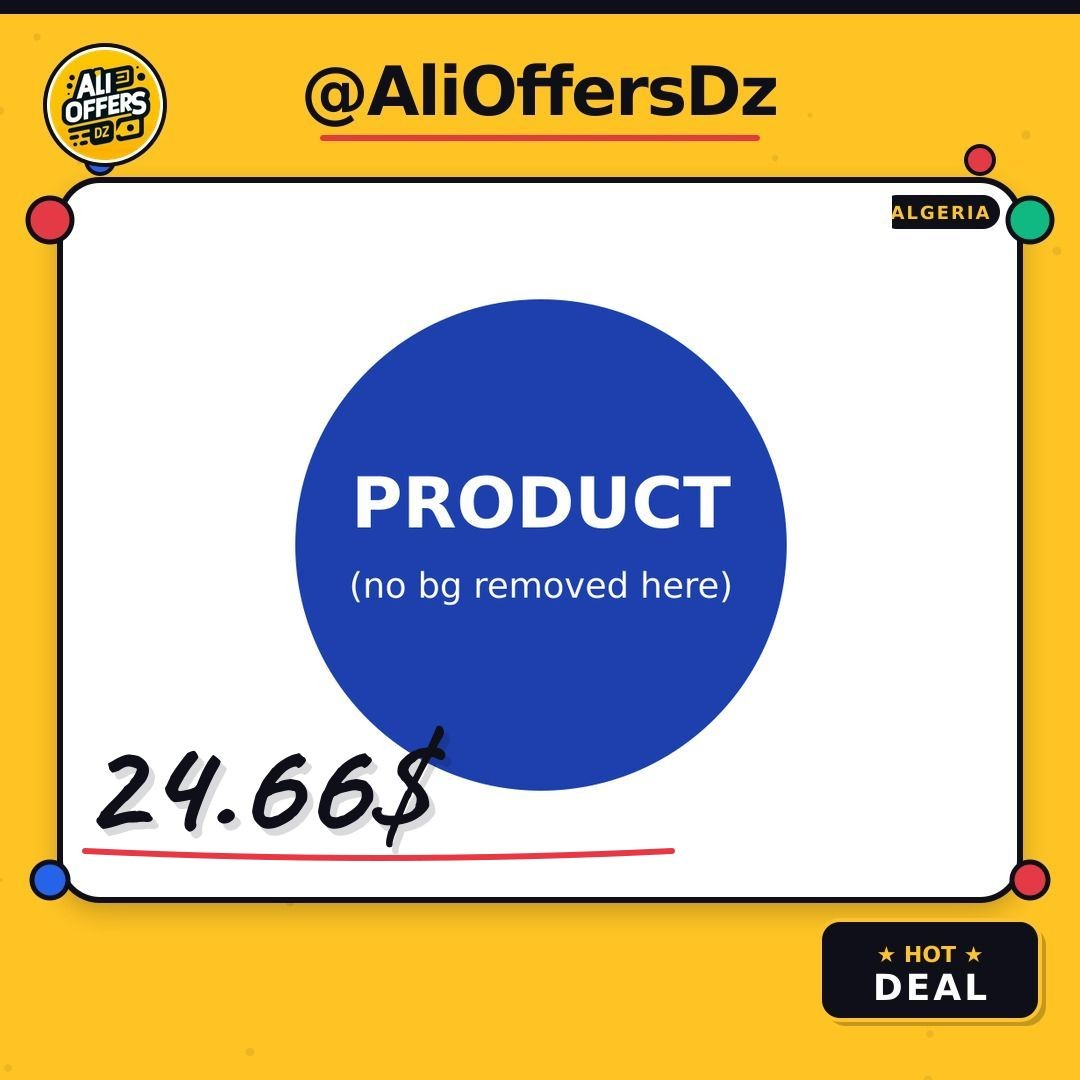
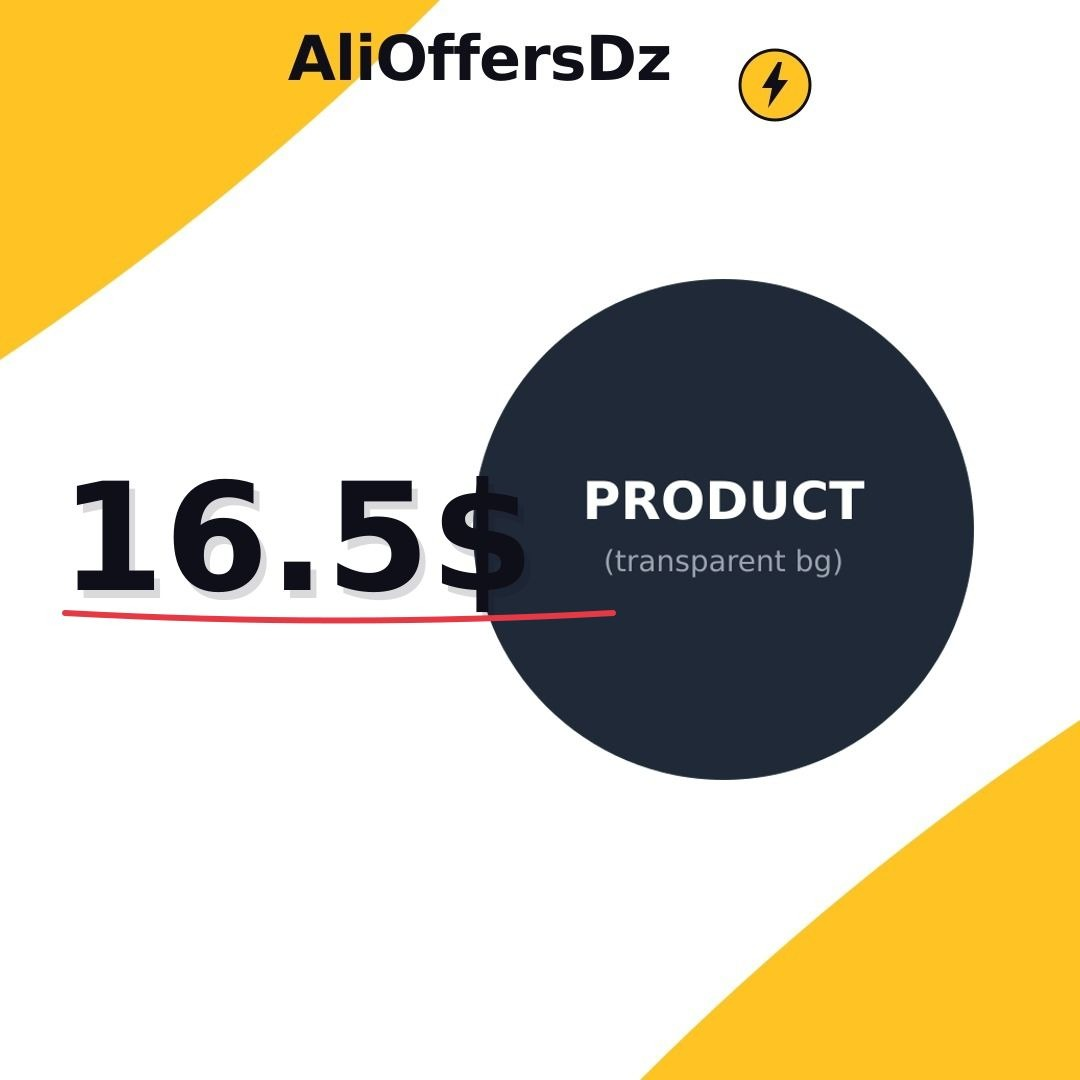
Update frame design to match RT DEALS style
Refactor scripts/build-frame.js and spy.js to implement the RT DEALS design, including white background, yellow swooshes, channel name, and dynamic pricing.

Replit-Commit-Author: Agent
Replit-Commit-Session-Id: a89dbef6-46b1-4384-9ed6-a8899594a70d
Replit-Commit-Checkpoint-Type: full_checkpoint
Replit-Commit-Event-Id: d37bc7d1-b516-4706-89e4-8cb3a9e4de31
Replit-Commit-Screenshot-Url: https://storage.googleapis.com/screenshot-production-us-central1/1842d263-0a1c-4a9c-a11e-cf92325f49a5/a89dbef6-46b1-4384-9ed6-a8899594a70d/5ejVb7s
Replit-Helium-Checkpoint-Created: true

diff --git a/scripts/build-frame.js b/scripts/build-frame.js
@@ -1,157 +1,77 @@
-// إطار جريء وجذاب — أصفر + أسود + دوائر ملوّنة (بدون نص سعر — السعر ديناميكي)
+// إطار نظيف بأسلوب RT DEALS — أبيض + منحنيين أصفرين + اسم القناة فوق + سعر يدوي يسار
 const sharp = require('sharp');
 const path = require('path');
 const fs = require('fs');
 
 const SIZE = 1080;
 const YELLOW = '#FFC424';
-const YELLOW_DARK = '#E5A800';
 const BLACK = '#0F0F1A';
-const RED = '#E63946';
-const BLUE = '#2563EB';
-const GREEN = '#10B981';
 
-// Geometry: white stage from y=180 to y=900 (height 720), x=60 to x=1020 (width 960)
-// → innerTop=180/1080≈16.7%, innerHeight=720/1080≈66.7%, innerLeft=60/1080≈5.6%, innerWidth=960/1080≈88.9%
+// Geometry: المنتج في النصف الأيمن
+// innerLeft=38%, innerTop=15%, innerW=58%, innerH=68% → spy.js
+// السعر اليدوي يسار-وسط → drawn dynamically
 
 const svg = `
 <svg width="${SIZE}" height="${SIZE}" xmlns="http://www.w3.org/2000/svg">
-  <defs>
-    <filter id="dropShadow" x="-20%" y="-20%" width="140%" height="140%">
-      <feGaussianBlur in="SourceAlpha" stdDeviation="14"/>
-      <feOffset dx="0" dy="10" result="offsetblur"/>
-      <feComponentTransfer><feFuncA type="linear" slope="0.25"/></feComponentTransfer>
-      <feMerge><feMergeNode/><feMergeNode in="SourceGraphic"/></feMerge>
-    </filter>
-  </defs>
+  <!-- خلفية بيضاء نقية -->
+  <rect width="${SIZE}" height="${SIZE}" fill="white"/>
 
-  <!-- خلفية صفراء كاملة -->
-  <rect width="${SIZE}" height="${SIZE}" fill="${YELLOW}"/>
-
-  <!-- نمط نقاط زخرفية في الخلفية الصفراء -->
-  ${(() => {
-    let dots = '';
-    for (let i = 0; i < 40; i++) {
-      const cx = Math.random() * SIZE;
-      const cy = Math.random() * SIZE;
-      const r = 2 + Math.random() * 3;
-      dots += `<circle cx="${cx.toFixed(0)}" cy="${cy.toFixed(0)}" r="${r.toFixed(1)}" fill="${BLACK}" opacity="0.08"/>`;
-    }
-    return dots;
-  })()}
-
-  <!-- ░░░ HEADER: شريط علوي مع اسم القناة ░░░ -->
-  <!-- شريط أسود علوي رفيع -->
-  <rect x="0" y="0" width="${SIZE}" height="14" fill="${BLACK}"/>
-  <!-- اسم القناة كبير وأسود -->
-  <text x="${SIZE/2}" y="115" font-family="Arial Black, sans-serif" font-size="68" font-weight="900" fill="${BLACK}" text-anchor="middle" letter-spacing="-2">@AliOffersDz</text>
-  <!-- خط أحمر تحت الاسم (لمسة رياضية) -->
-  <rect x="${SIZE/2 - 220}" y="135" width="440" height="6" fill="${RED}" rx="3"/>
-
-  <!-- ░░░ المسرح الأبيض المركزي للمنتج ░░░ -->
-  <g filter="url(#dropShadow)">
-    <rect x="60" y="180" width="960" height="720" rx="40" fill="white"/>
-  </g>
-
-  <!-- إطار أسود رفيع حول المسرح -->
-  <rect x="60" y="180" width="960" height="720" rx="40" fill="none" stroke="${BLACK}" stroke-width="6"/>
-
-  <!-- ░░░ دوائر ملوّنة زخرفية على حواف المسرح ░░░ -->
-  <!-- زاوية علوية يسرى -->
-  <circle cx="50" cy="220" r="22" fill="${RED}" stroke="${BLACK}" stroke-width="5"/>
-  <circle cx="100" cy="160" r="14" fill="${BLUE}" stroke="${BLACK}" stroke-width="4"/>
-  <!-- زاوية علوية يمنى -->
-  <circle cx="${SIZE-50}" cy="220" r="22" fill="${GREEN}" stroke="${BLACK}" stroke-width="5"/>
-  <circle cx="${SIZE-100}" cy="160" r="14" fill="${RED}" stroke="${BLACK}" stroke-width="4"/>
-  <!-- زاوية سفلية يسرى -->
-  <circle cx="50" cy="880" r="18" fill="${BLUE}" stroke="${BLACK}" stroke-width="5"/>
-  <!-- زاوية سفلية يمنى -->
-  <circle cx="${SIZE-50}" cy="880" r="18" fill="${RED}" stroke="${BLACK}" stroke-width="5"/>
-
-  <!-- ░░░ شارة "DEAL" سفلية بارزة في الزاوية اليمنى ░░░ -->
-  <g transform="translate(${SIZE-260}, ${SIZE-160})">
-    <!-- ظل -->
-    <rect x="6" y="6" width="220" height="100" rx="20" fill="${BLACK}" opacity="0.25"/>
-    <!-- بطاقة حمراء -->
-    <rect x="0" y="0" width="220" height="100" rx="20" fill="${BLACK}"/>
-    <rect x="0" y="0" width="220" height="100" rx="20" fill="none" stroke="${YELLOW}" stroke-width="4"/>
-    <!-- نص -->
-    <text x="110" y="42" font-family="Arial Black, sans-serif" font-size="22" font-weight="900" fill="${YELLOW}" text-anchor="middle">★ HOT ★</text>
-    <text x="110" y="80" font-family="Arial Black, sans-serif" font-size="36" font-weight="900" fill="white" text-anchor="middle" letter-spacing="3">DEAL</text>
-  </g>
-
-  <!-- ░░░ شارة "PRICE" يدوية فارغة (الرقم سيُكتب ديناميكياً) ░░░ -->
-  <!-- نتركها فارغة - السعر سيُرسم في runtime عبر overlayPrice -->
+  <!-- ░░░ منحنى أصفر علوي يسار ░░░ -->
+  <!-- يبدأ من زاوية أعلى يسار، يسحب لليمين ~430px ثم ينحني للأسفل عائداً للحافة اليسرى -->
+  <path d="M 0 0 H 440 Q 240 200 0 360 Z" fill="${YELLOW}"/>
   
-  <!-- شريط جانبي صغير بنص ALGERIA في زاوية اليمين العلوية للمسرح -->
-  <g transform="translate(${SIZE-200}, 195)">
-    <rect x="0" y="0" width="120" height="34" rx="17" fill="${BLACK}"/>
-    <text x="60" y="24" font-family="Arial Black, sans-serif" font-size="18" font-weight="900" fill="${YELLOW}" text-anchor="middle" letter-spacing="2">ALGERIA</text>
+  <!-- ░░░ منحنى أصفر سفلي يمين (مرآة) ░░░ -->
+  <path d="M ${SIZE} ${SIZE} H ${SIZE-440} Q ${SIZE-240} ${SIZE-200} ${SIZE} ${SIZE-360} Z" fill="${YELLOW}"/>
+
+  <!-- ░░░ هيدر: اسم القناة + أيقونة برق ░░░ -->
+  <!-- اسم القناة كبير وسط الأعلى -->
+  <text x="${SIZE/2 - 60}" y="80" font-family="Arial Black, sans-serif" font-size="62" font-weight="900" fill="${BLACK}" text-anchor="middle" letter-spacing="-1">AliOffersDz</text>
+  
+  <!-- دائرة صفراء مع برق أسود (مكان شعار البرق في RT DEALS) -->
+  <g transform="translate(${SIZE/2 + 200}, 50)">
+    <circle cx="35" cy="35" r="35" fill="${YELLOW}" stroke="${BLACK}" stroke-width="3"/>
+    <!-- برق أسود -->
+    <path d="M 38 12 L 22 38 L 32 38 L 28 58 L 48 30 L 38 30 L 42 12 Z" fill="${BLACK}"/>
   </g>
 </svg>`;
 
 (async () => {
   const outPath = path.join(__dirname, '..', 'public', 'custom_frame.jpg');
-
-  // 1) ارسم الإطار الأساسي
   const baseFrame = await sharp(Buffer.from(svg)).png().toBuffer();
+  await sharp(baseFrame).jpeg({ quality: 94 }).toFile(outPath);
+  console.log('✅ Built clean RT-DEALS-style frame');
 
-  // 2) جهّز شعار صغير دائري في زاوية الهيدر العلوية اليسرى
-  const logoPath = path.join(__dirname, '..', 'public', 'logo.png');
-  if (fs.existsSync(logoPath)) {
-    const LOGO = 110;
-    const logoBuf = await sharp(logoPath)
-      .resize(LOGO, LOGO, { fit: 'contain', background: { r: 0, g: 0, b: 0, alpha: 0 } })
-      .png()
-      .toBuffer();
-    // خلفية بيضاء دائرية للشعار + ظل
-    const halo = Buffer.from(`<svg width="${LOGO+20}" height="${LOGO+20}" xmlns="http://www.w3.org/2000/svg">
-      <circle cx="${(LOGO+20)/2}" cy="${(LOGO+20)/2}" r="${LOGO/2 + 5}" fill="white" stroke="${BLACK}" stroke-width="4"/>
-    </svg>`);
-    const haloBuf = await sharp(halo).png().toBuffer();
-
-    const composed = await sharp(baseFrame)
-      .composite([
-        { input: haloBuf, left: 40, top: 40 },
-        { input: logoBuf, left: 50, top: 50 },
-      ])
-      .jpeg({ quality: 92 })
-      .toBuffer();
-    fs.writeFileSync(outPath, composed);
-  } else {
-    await sharp(baseFrame).jpeg({ quality: 92 }).toFile(outPath);
-  }
-
-  console.log('✅ Built bold frame (yellow + black + circles)');
-
-  // 3) معاينة مع منتج وهمي + سعر ديناميكي
+  // ░░░ معاينة مع منتج وهمي + سعر ديناميكي ░░░
   const { overlayPrice } = require(path.join(__dirname, '..', 'imageProcessor.js'));
-  const productSvg = `<svg width="800" height="800" xmlns="http://www.w3.org/2000/svg">
-    <rect width="800" height="800" fill="white"/>
-    <circle cx="400" cy="400" r="280" fill="#1E40AF"/>
-    <text x="400" y="380" font-family="Arial Black" font-size="80" font-weight="900" fill="white" text-anchor="middle">PRODUCT</text>
-    <text x="400" y="460" font-family="Arial" font-size="40" fill="white" text-anchor="middle">(no bg removed here)</text>
+  
+  // منتج وهمي (سيُستبدل في الإنتاج بصور بدون خلفية)
+  const productSvg = `<svg width="600" height="600" xmlns="http://www.w3.org/2000/svg">
+    <circle cx="300" cy="300" r="240" fill="#1F2937"/>
+    <text x="300" y="290" font-family="Arial Black" font-size="50" font-weight="900" fill="white" text-anchor="middle">PRODUCT</text>
+    <text x="300" y="340" font-family="Arial" font-size="28" fill="#9CA3AF" text-anchor="middle">(transparent bg)</text>
   </svg>`;
   const productBuf = await sharp(Buffer.from(productSvg)).png().toBuffer();
 
-  // منطقة المنتج: داخل المسرح الأبيض
-  const innerLeft = Math.round(1080 * 0.07);
-  const innerTop = Math.round(1080 * 0.18);
-  const innerW = Math.round(1080 * 0.86);
-  const innerH = Math.round(1080 * 0.65);
+  // المنتج في النصف الأيمن: innerLeft=38%, innerTop=15%, innerW=58%, innerH=68%
+  const innerLeft = Math.round(SIZE * 0.38);
+  const innerTop = Math.round(SIZE * 0.15);
+  const innerW = Math.round(SIZE * 0.58);
+  const innerH = Math.round(SIZE * 0.68);
   const resizedProduct = await sharp(productBuf)
     .resize(innerW, innerH, { fit: 'inside' })
     .toBuffer();
-  // مركز داخل المسرح
   const meta = await sharp(resizedProduct).metadata();
   const offX = innerLeft + Math.round((innerW - meta.width) / 2);
   const offY = innerTop + Math.round((innerH - meta.height) / 2);
 
   let preview = await sharp(outPath)
     .composite([{ input: resizedProduct, left: offX, top: offY, blend: 'over' }])
+    .jpeg({ quality: 92 })
     .toBuffer();
-  // أضف سعر تجريبي
-  preview = await overlayPrice(preview, '24.66', { x: 80, y: 690, fontSize: 140 });
-  await sharp(preview).jpeg({ quality: 90 }).toFile(path.join(__dirname, '..', 'public', 'preview_yellow.jpg'));
+  
+  // السعر اليدوي يسار-وسط
+  preview = await overlayPrice(preview, '16.5', { x: 60, y: 440, fontSize: 150 });
+  
+  await sharp(preview).jpeg({ quality: 92 }).toFile(path.join(__dirname, '..', 'public', 'preview_yellow.jpg'));
   console.log('✅ Preview saved');
 })().catch(e => { console.error(e); process.exit(1); });

diff --git a/spy.js b/spy.js
@@ -466,11 +466,11 @@ async function applyFrameToImage(productImage, imageUrl, watermark, opts = {}) {
 
     const meta = await sharp(useFramePath).metadata();
     const fW = meta.width, fH = meta.height;
-    // Bold frame geometry: white stage at 7% left, 18% top, 86% wide, 65% tall
-    const innerLeft = Math.round(fW * 0.07);
-    const innerTop = Math.round(fH * 0.18);
-    const innerW = Math.round(fW * 0.86);
-    const innerH = Math.round(fH * 0.65);
+    // RT-DEALS-style geometry: المنتج في النصف الأيمن (38% left, 15% top, 58% wide, 68% tall)
+    const innerLeft = Math.round(fW * 0.38);
+    const innerTop = Math.round(fH * 0.15);
+    const innerW = Math.round(fW * 0.58);
+    const innerH = Math.round(fH * 0.68);
 
     // إزالة خلفية المنتج إذا مفعّلة
     let productBuf = buffer;
@@ -532,10 +532,10 @@ async function applyFrameToImage(productImage, imageUrl, watermark, opts = {}) {
       let price = opts.price || null;
       if (!price && opts.postText) price = extractPrice(opts.postText);
       if (price) {
-        // موضع السعر داخل المسرح أسفل-يسار
-        const priceX = Math.round(fW * 0.075);
-        const priceY = Math.round(fH * 0.62);
-        const priceFontSize = Math.round(fH * 0.13);
+        // موضع السعر يسار-وسط (بأسلوب RT DEALS)
+        const priceX = Math.round(fW * 0.055);
+        const priceY = Math.round(fH * 0.40);
+        const priceFontSize = Math.round(fH * 0.14);
         result = await overlayPrice(result, String(price).replace(',', '.'), {
           x: priceX, y: priceY, fontSize: priceFontSize
         });